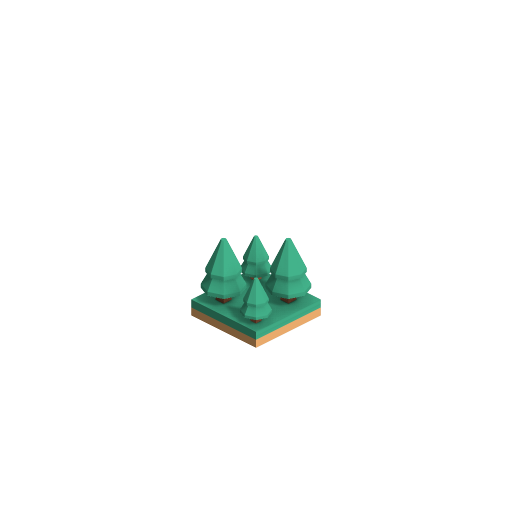
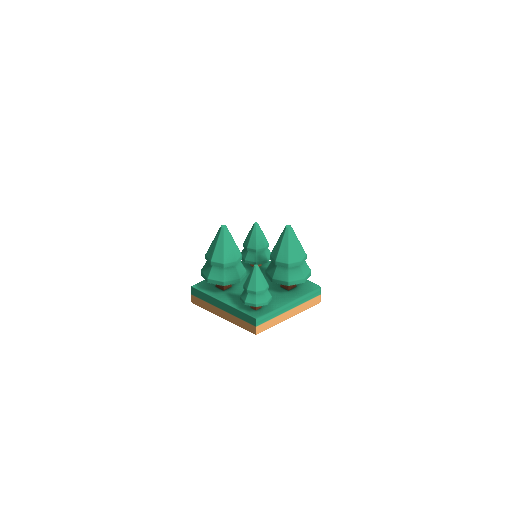
fix: Change towers to sprites, fix assets

Changed region(s): [[0.375, 0.4375, 0.625, 0.6875]]

diff --git a/packages/map-designer/src/scenes/TileMap.ts b/packages/map-designer/src/scenes/TileMap.ts
@@ -1,8 +1,9 @@
 import Phaser from 'phaser';
 import { Pan, Pinch } from 'phaser3-rex-plugins/plugins/gestures.js';
-import Tower from '../config/Tower.js';
 import TowerConfig from '../config/TowerConfig.js';
+import TowerType from '../config/TowerType.js';
 import { events, MapDesignerEvents } from '../events/EventEmitter.js';
+import { Tower } from '../objects/Tower.js';
 import { Parameters } from '../Parameters.js';
 
 enum SelectedObjectType {
@@ -14,7 +15,7 @@ enum SelectedObjectType {
 export class TileMap extends Phaser.Scene {
   _selectedObjectType = SelectedObjectType.TOWER;
 
-  _selectedTower: Tower = TowerConfig.towers[0];
+  _selectedTower: TowerType = TowerConfig.towers[0];
 
   controls!: Phaser.Cameras.Controls.SmoothedKeyControl;
 
@@ -22,9 +23,9 @@ export class TileMap extends Phaser.Scene {
 
   groundLayer!: Phaser.Tilemaps.TilemapLayer;
 
-  towerLayer!: Phaser.Tilemaps.TilemapLayer;
-
   coinsUsed = 0;
+
+  _currentTowers: Map<number, Tower> = new Map();
 
   constructor() {
     super({
@@ -38,7 +39,7 @@ export class TileMap extends Phaser.Scene {
     this.load.image('tile_E', './assets/tile_E.png');
     this.load.image('tile_treeQuad_N', './assets/tile_treeQuad_N.png');
     TowerConfig.towers.forEach(tower => {
-      this.load.image(`${tower.name}tile`, `./assets/${tower.asset}`);
+      this.load.image(`${tower.name}-sprite`, `./assets/${tower.asset}`);
     });
     this.load.tilemapTiledJSON('map', './assets/map-2.json');
   }
@@ -53,17 +54,11 @@ export class TileMap extends Phaser.Scene {
       this.map.addTilesetImage('tile_treeQuad_N.png', 'tile_treeQuad_N'),
     ];
     this.groundLayer = this.map.createLayer('Ground', landscapeTile, 0, 0);
-
-    const towerTiles = TowerConfig.towers.map(tower =>
-      this.map.addTilesetImage(tower.asset, `${tower.name}tile`),
-    );
-
-    this.towerLayer = this.map.createLayer('Towers', towerTiles, 0, 0);
+    this.groundLayer.setDepth(0);
 
     this.groundLayer.setCullPadding(6, 6);
-    this.towerLayer.setCullPadding(6, 6);
 
-    events.on(MapDesignerEvents.TOWER_SELECTED, (tower: Tower) => {
+    events.on(MapDesignerEvents.TOWER_SELECTED, (tower: TowerType) => {
       this._selectedObjectType = SelectedObjectType.TOWER;
       this._selectedTower = tower;
     });
@@ -224,48 +219,67 @@ export class TileMap extends Phaser.Scene {
       return;
     }
     if (
+      x === 0 ||
+      y === 0 ||
+      x === Parameters.mapWidth - 1 ||
+      y === Parameters.mapHeight - 1
+    ) {
+      return;
+    }
+    if (
       this._selectedObjectType === SelectedObjectType.TOWER &&
       this._selectedTower.price > Parameters.totalCoins - this.coinsUsed
     ) {
       return;
     }
-    const existingTileIndex = this.map.getTileAt(
-      x,
-      y,
-      false,
-      this.towerLayer,
-    )?.index;
-    this.map.putTileAt(
-      this._selectedObjectType === SelectedObjectType.TOWER
-        ? this._selectedTower.tileId
-        : 0,
-      x,
-      y,
-      true,
-      this.towerLayer,
-    );
-    const addedTile = this.map.getTileAt(x, y, false, this.towerLayer);
-    addedTile.width = Parameters.mapTileWidth;
-    addedTile.height = Parameters.mapTileHeight;
-
-    if (existingTileIndex !== addedTile.index) {
+    if (this._selectedObjectType === SelectedObjectType.ERASER) {
+      const tileIndex = x * 100 + y;
+      if (this._currentTowers.has(tileIndex)) {
+        this._currentTowers.get(tileIndex)?.destroy();
+        this._currentTowers.delete(tileIndex);
+        this._updateMap();
+      }
+      return;
+    }
+    const tile = this.groundLayer.getTileAt(x, y);
+    const tileIndex = x * 100 + y;
+    if (
+      !this._currentTowers.has(tileIndex) ||
+      this._currentTowers.get(tileIndex)?.towerType !== this._selectedTower
+    ) {
+      this._currentTowers.get(tileIndex)?.destroy();
+      this._currentTowers.set(
+        tileIndex,
+        this.add.existing(
+          new Tower(
+            this,
+            this._selectedTower,
+            tile.pixelX + Parameters.mapTileHalfWidth,
+            tile.pixelY + Parameters.mapTileHalfHeight,
+          ),
+        ),
+      );
       this._updateMap();
     }
   }
 
   private _updateMap() {
     const mapData: Array<Array<number>> = [];
+    let coins = 0;
     for (let y = 0; y < Parameters.mapHeight; y++) {
       const row: Array<number> = [];
       for (let x = 0; x < Parameters.mapWidth; x++) {
-        const tile = this.map.getTileAt(x, y, false, this.towerLayer);
-        row.push(
-          tile
-            ? TowerConfig.towers.findIndex(
-                tower => tower.tileId === tile.index,
-              ) + 1
-            : 0,
-        );
+        if (this._currentTowers.has(x * 100 + y)) {
+          // eslint-disable-next-line @typescript-eslint/no-non-null-assertion
+          const towerType = this._currentTowers.get(x * 100 + y)!.towerType;
+          const tileIndex = TowerConfig.towers.findIndex(
+            tower => tower.tileId === towerType.tileId,
+          );
+          row.push(tileIndex ?? 0);
+          coins += towerType?.price ?? 0;
+        } else {
+          row.push(0);
+        }
       }
       mapData.push(row);
     }
@@ -275,18 +289,6 @@ export class TileMap extends Phaser.Scene {
       JSON.stringify(mapData),
     );
 
-    let coins = 0;
-    for (let y = 0; y < Parameters.mapHeight; y++) {
-      for (let x = 0; x < Parameters.mapWidth; x++) {
-        const tile = this.map.getTileAt(x, y, false, this.towerLayer);
-        if (tile) {
-          const towerType = TowerConfig.towers.find(
-            (tower: Tower) => tower.tileId === tile.index,
-          );
-          coins += towerType?.price || 0;
-        }
-      }
-    }
     this.coinsUsed = coins;
     events.emit(MapDesignerEvents.COINS_CHANGED, Parameters.totalCoins - coins);
   }
@@ -304,14 +306,10 @@ export class TileMap extends Phaser.Scene {
   }
 
   private _loadMap(mapData: Array<Array<number>>): void {
-    for (let y = 0; y < Parameters.mapHeight; y++) {
-      for (let x = 0; x < Parameters.mapWidth; x++) {
-        const tile = this.map.getTileAt(x, y, false, this.towerLayer);
-        if (tile) {
-          this.map.removeTileAt(x, y, true, true, this.towerLayer);
-        }
-      }
+    for (const tower of this._currentTowers.values()) {
+      tower.destroy();
     }
+    this._currentTowers.clear();
     localStorage.setItem(
       Parameters.mapLocalStorageKey,
       JSON.stringify(mapData),
@@ -320,20 +318,23 @@ export class TileMap extends Phaser.Scene {
     let coins = 0;
     for (let y = 0; y < Parameters.mapHeight; y++) {
       for (let x = 0; x < Parameters.mapWidth; x++) {
-        const tile = mapData[y][x];
-        if (tile >= 1) {
-          const tower = tile - 1;
-          this.map.putTileAt(
-            TowerConfig.towers[tower].tileId,
-            x,
-            y,
-            true,
-            this.towerLayer,
+        const tileId = mapData[y][x];
+        if (tileId >= 1) {
+          const towerId = tileId - 1;
+          const tile = this.groundLayer.getTileAt(x, y);
+          const tileIndex = x * 100 + y;
+          this._currentTowers.set(
+            tileIndex,
+            this.add.existing(
+              new Tower(
+                this,
+                TowerConfig.towers[towerId],
+                tile.pixelX + Parameters.mapTileHalfWidth,
+                tile.pixelY + Parameters.mapTileHalfHeight,
+              ),
+            ),
           );
-          const addedTile = this.map.getTileAt(x, y, false, this.towerLayer);
-          addedTile.width = Parameters.mapTileWidth;
-          addedTile.height = Parameters.mapTileHeight;
-          coins += TowerConfig.towers[tower].price;
+          coins += TowerConfig.towers[towerId].price;
         }
       }
     }

diff --git a/packages/renderer/demo/index.html b/packages/renderer/demo/index.html
@@ -8,7 +8,7 @@
       background: #fafafa;
     }
   </style>
-  <meta name="viewport" content="width=device-width, initial-scale=1.0"/>
+  <meta name="viewport" content="width=device-width, initial-scale=1.0" />
   <link rel="stylesheet" href="https://cdn.jsdelivr.net/npm/bootstrap@5.1.3/dist/css/bootstrap.min.css"
     integrity="sha384-1BmE4kWBq78iYhFldvKuhfTAU6auU8tT94WrHftjDbrCEXSU1oBoqyl2QvZ6jIW3" crossorigin="anonymous" />
   <link rel="preconnect" href="https://fonts.googleapis.com">
@@ -22,14 +22,17 @@
       width: 50%;
       height: 40px;
     }
+
     #render {
       width: 50%;
       height: 40px;
     }
+
     #root {
       width: 100%;
       height: calc(100% - 40px);
     }
+
     #toolbar {
       display: flex;
       flex-direction: row;
@@ -58,6 +61,14 @@
       const log = document.getElementById('log');
       RendererUtils.loadLog(log.value);
     });
+  </script>
+
+  <script>
+    const open = XMLHttpRequest.prototype.open;
+    XMLHttpRequest.prototype.open = function (method, url, ...rest) {
+      url = url.replace("./assets", "/assets");
+      return open.call(this, method, url, ...rest);
+    };
   </script>
 </body>
 

diff --git a/packages/map-designer/src/config/TowerConfig.ts b/packages/map-designer/src/config/TowerConfig.ts
@@ -1,10 +1,16 @@
-import Tower from './Tower.js';
+import TowerType from './TowerType.js';
 
 export default class TowerConfig {
   // TODO: Fetch from network
   static readonly towers = [
-    new Tower(2, 'tower1', 'tower_round.png', 'tower_round_thumbnail.png', 100),
-    new Tower(
+    new TowerType(
+      2,
+      'tower1',
+      'tower_round.png',
+      'tower_round_thumbnail.png',
+      100,
+    ),
+    new TowerType(
       3,
       'tower2',
       'tower_square.png',

diff --git a/packages/map-designer/demo/index.html b/packages/map-designer/demo/index.html
@@ -32,6 +32,14 @@
       document.getElementById('root')
     );
   </script>
+
+  <script>
+    const open = XMLHttpRequest.prototype.open;
+    XMLHttpRequest.prototype.open = function (method, url, ...rest) {
+      url = url.replace("./assets", "/assets");
+      return open.call(this, method, url, ...rest);
+    };
+  </script>
 </body>
 
 </html>

diff --git a/packages/map-designer/src/objects/Tower.ts b/packages/map-designer/src/objects/Tower.ts
@@ -1,0 +1,12 @@
+import TowerType from '../config/TowerType';
+
+export class Tower extends Phaser.GameObjects.Image {
+  readonly towerType: TowerType;
+
+  constructor(scene: Phaser.Scene, towerType: TowerType, x: number, y: number) {
+    super(scene, x, y, `${towerType.name}-sprite`);
+
+    this.towerType = towerType;
+    this.depth = y;
+  }
+}

diff --git a/packages/map-designer/src/Parameters.ts b/packages/map-designer/src/Parameters.ts
@@ -9,7 +9,11 @@ export class Parameters {
 
   static mapTileWidth = 512;
 
+  static mapTileHalfWidth = 256;
+
   static mapTileHeight = 512;
+
+  static mapTileHalfHeight = 256;
 
   static mapTileOffsetX = 256;
 

diff --git a/packages/map-designer/src/config/TowerType.ts b/packages/map-designer/src/config/TowerType.ts
@@ -1,4 +1,4 @@
-export default class Tower {
+export default class TowerType {
   tileId: number;
 
   name: string;
